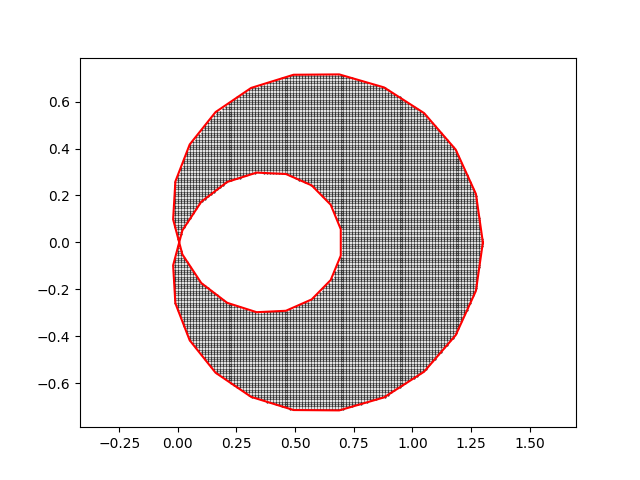
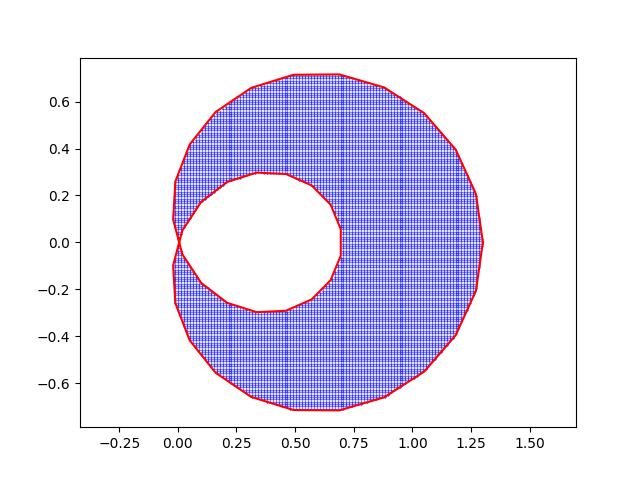
123123123123dsazzz  zz z

Changed region(s): [[0.25, 0.1562, 0.75, 0.875]]

diff --git a/tumannost.py b/tumannost.py
@@ -9,37 +9,95 @@ fig, ax = plt.subplots()
 
 ax.imshow(img)
 
-t1 = np.linspace(- np.pi/2, - np.pi, 10)
-x1 = 485
-y1 = 100 
+t1 = np.linspace(np.pi, 3*np.pi/2.3, 10)
+x1 = 280 + 50 * np.cos(t1)
+y1 = 490 + 180 * np.sin(t1)
 
-t2 = np.linspace(np.pi, np.pi/1.0001, 10)
-x2 = 510 + 1 * np.cos(t2)
-y2 = 110 + 1 * np.sin(t2)
+t2 = np.linspace(np.pi, 3*np.pi/2.65, 10)
+x2 = 352 + 100 * np.cos(t2)
+y2 = 340 + 12 * np.sin(t2)
 
 x = np.append(x1, x2)
 y = np.append(y1, y2)
 
-t3 = np.linspace(np.pi, np.pi/1.5, 10)
-x3 = 561 + 50 * np.cos(t3)
-y3 = 116 + 3 * np.sin(t3)
+t3 = np.linspace(np.pi/2, np.pi/7, 10)
+x3 = 262 + 25 * np.cos(t3)
+y3 = 234.5 + 100 * np.sin(t3)
 
 x = np.append(x, x3)
 y = np.append(y, y3)
 
-t4 = np.linspace(np.pi, 2.9*np.pi/2, 10)
-x4 = 619 + 84 * np.cos(t4)
-y4 = 81 + 5 * np.sin(t4)
+t4 = np.linspace(np.pi/3, np.pi/8, 10)
+x4 = 273.5 + 25 * np.cos(t4)
+y4 = 157 + 135 * np.sin(t4)
 
 x = np.append(x, x4)
 y = np.append(y, y4)
+
+t5 = np.linspace(np.pi, 3*np.pi/2.1, 10)
+x5 = 321.5 + 25 * np.cos(t5)
+y5 = 210 + 125 * np.sin(t5)
+
+x = np.append(x, x5)
+y = np.append(y, y5)
+
+t6 = np.linspace(np.pi, 3*np.pi/2.5, 10)
+x6 = 345 + 25 * np.cos(t6)
+y6 = 86 + 4 * np.sin(t6)
+
+x = np.append(x, x6)
+y = np.append(y, y6)
+
+t7 = np.linspace(np.pi, 3*np.pi/2.5, 10)
+x7 = 390 
+y7 = 72 
+
+x = np.append(x, x7)
+y = np.append(y, y7)
+
+t8 = np.linspace(3*np.pi/2, 2*np.pi, 10)
+x8 = 390 + 50 * np.cos(t8)
+y8 = 251.9 + 180 * np.sin(t8) 
+
+x = np.append(x, x8)
+y = np.append(y, y8)
+
+t9 = np.linspace(2.7*np.pi/2, 2*np.pi, 100)
+x9 = 468.5 + 60 * np.cos(t9)
+y9 = 386 + 150 * np.sin(t9) 
+
+x = np.append(x, x9)
+y = np.append(y, y9)
+
+t10 = np.linspace(0, np.pi/2, 100)
+x10 = 468.5 + 60 * np.cos(t10)
+y10 = 386 + 400 * np.sin(t10) 
+
+x = np.append(x, x10)
+y = np.append(y, y10)
 
 
 spline_coords, figure_spline_part = interpolate.splprep([x, y], s=0)
 spline_curve = interpolate.splev(figure_spline_part, spline_coords)
 
+curve_coords = []
+for i in range(len(spline_curve[0])):
+    curve_coords.append([spline_curve[0][i], spline_curve[1][i]])
+    
+polygon = geom.Polygon(curve_coords)
+points_number_per_side = 200
+
+x_pictures_limits = [200, 600]
+y_pictures_limits = [0, 700]
+
+for x_point_coord in np.linspace(*x_pictures_limits, points_number_per_side):
+    for y_point_coord in np.linspace(*y_pictures_limits, points_number_per_side):
+        p = geom.Point(x_point_coord, y_point_coord)
+        if p.within(polygon):
+            plt.plot(x_point_coord, y_point_coord, 'bo', ms = 0.5)
+
 plt.plot(spline_curve[0], spline_curve[1], 'r')
-plt.ylim(0, 700)
-plt.xlim(50, 950)
+plt.ylim(490, 0)
+plt.xlim(50, 700)
 plt.savefig('tumannost_interpol.png')
 

diff --git a/point_in_poligon.py b/point_in_poligon.py
@@ -27,7 +27,7 @@ for x_point_coord in np.linspace(*x_pictures_limits, points_number_per_side):
     for y_point_coord in np.linspace(*y_pictures_limits, points_number_per_side):
         p = geom.Point(x_point_coord, y_point_coord)
         if p.within(polygon):
-            plt.plot(x_point_coord, y_point_coord, 'ko', ms = 0.5)
+            plt.plot(x_point_coord, y_point_coord, 'bo', ms = 0.5)
 
 plt.axis('equal')
 plt.plot(spline_curve[0], spline_curve[1], 'r')
